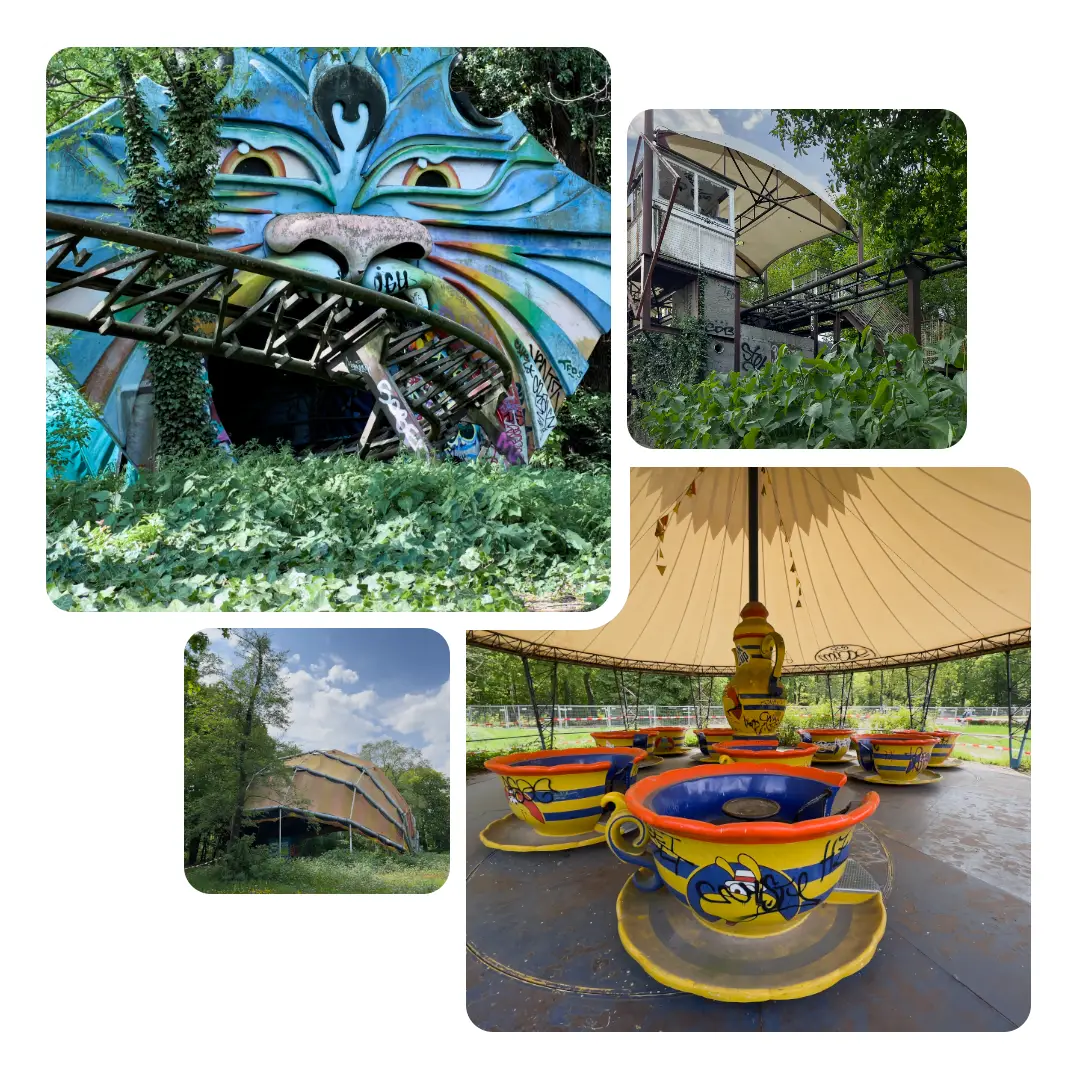
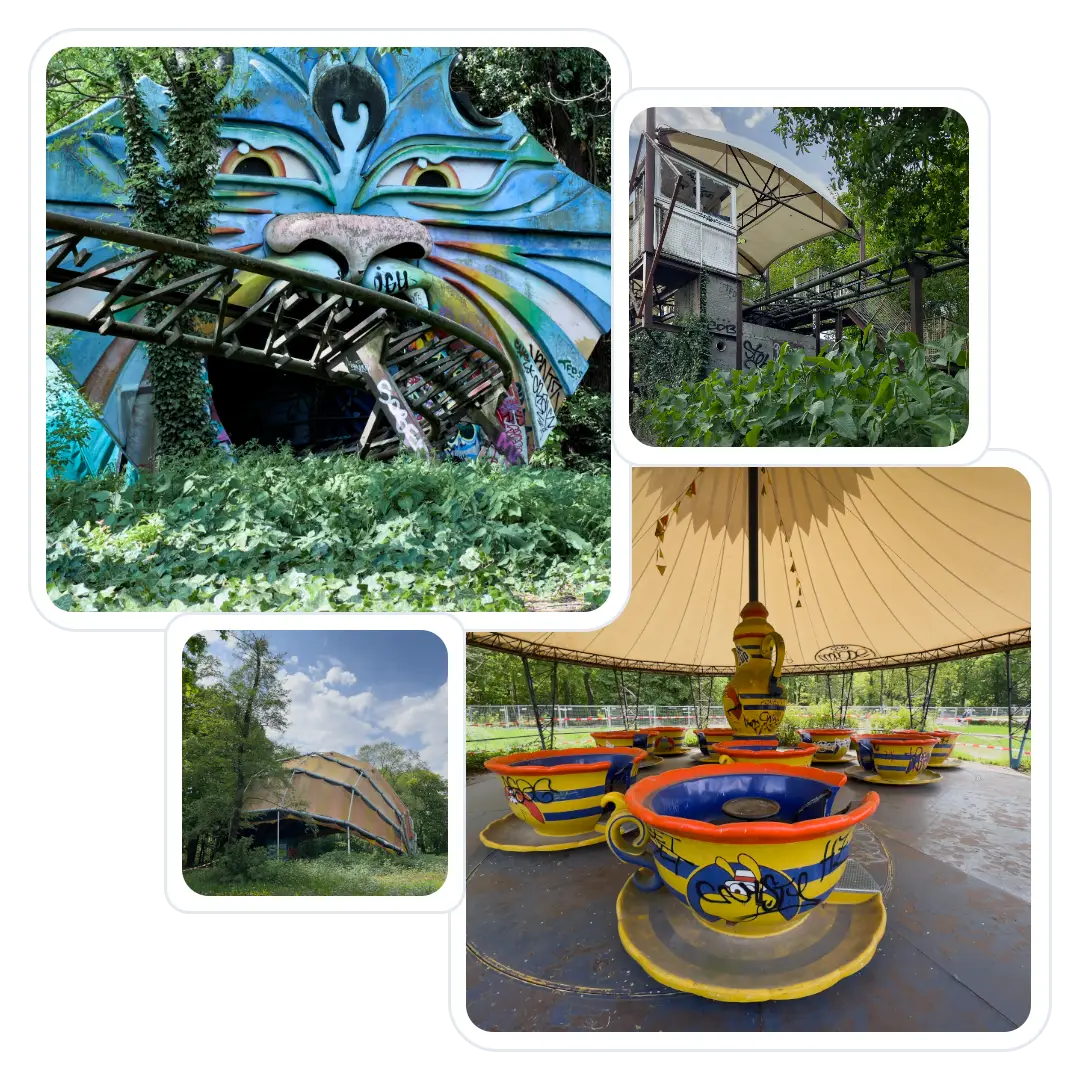
Comment Updates

diff --git a/assets/css/extended/custom.css b/assets/css/extended/custom.css
@@ -7,18 +7,13 @@
    -------------------------------------------------------------------------- */
 :root {
   /* Core Color Variables */
-  /* --color-white: #ffffff;
-  --color-black: #011c3d;
-  --color-dark-accent: #034873;
-  --color-accent: #0077b6;
-  --color-light-accent: #eef5f9; */
-  --color-white: #f8fafc;        /* Heller Schiefer-/Eisweiß-Hintergrund */
-    --color-light-accent: #e2e8f0; /* Klares Hellgrau (Kartenränder & Zeitachse) */
-    --color-accent: #0284c7;       /* Leuchtendes Cyan-Blau (Jahres-Badge, RAW-Pills) */
-    --color-dark-accent: #475569;  /* Kühler Schiefer (Fließtext, Unterzeilen) */
-    --color-black: #0f172a;        /* Deep Slate Navy (Überschriften, Haupttext) */
-    --color-pinterest: #e60023;    /* Pinterest Brand Red */
-    --color-pinterest-icon: #ff4d6d; /* Pinterest Soft Pink Icon */
+  --color-white: #f8fafc;               /* Heller Schiefer-/Eisweiß-Hintergrund */
+  --color-light-accent: #e2e8f0;        /* Klares Hellgrau (Kartenränder & Zeitachse) */
+  --color-accent: #0284c7;              /* Leuchtendes Cyan-Blau (Jahres-Badge, RAW-Pills) */
+  --color-dark-accent: #475569;         /* Kühler Schiefer (Fließtext, Unterzeilen) */
+  --color-black: #0f172a;               /* Deep Slate Navy (Überschriften, Haupttext) */
+  --color-pinterest: #e60023;           /* Pinterest Brand Red */
+  --color-pinterest-icon: #ff4d6d;      /* Pinterest Soft Pink Icon */
 
 
 
@@ -5648,4 +5643,3 @@ body.modal-open {
   from { opacity: 0; transform: translateY(-8px); }
   to { opacity: 1; transform: translateY(0); }
 }
-
